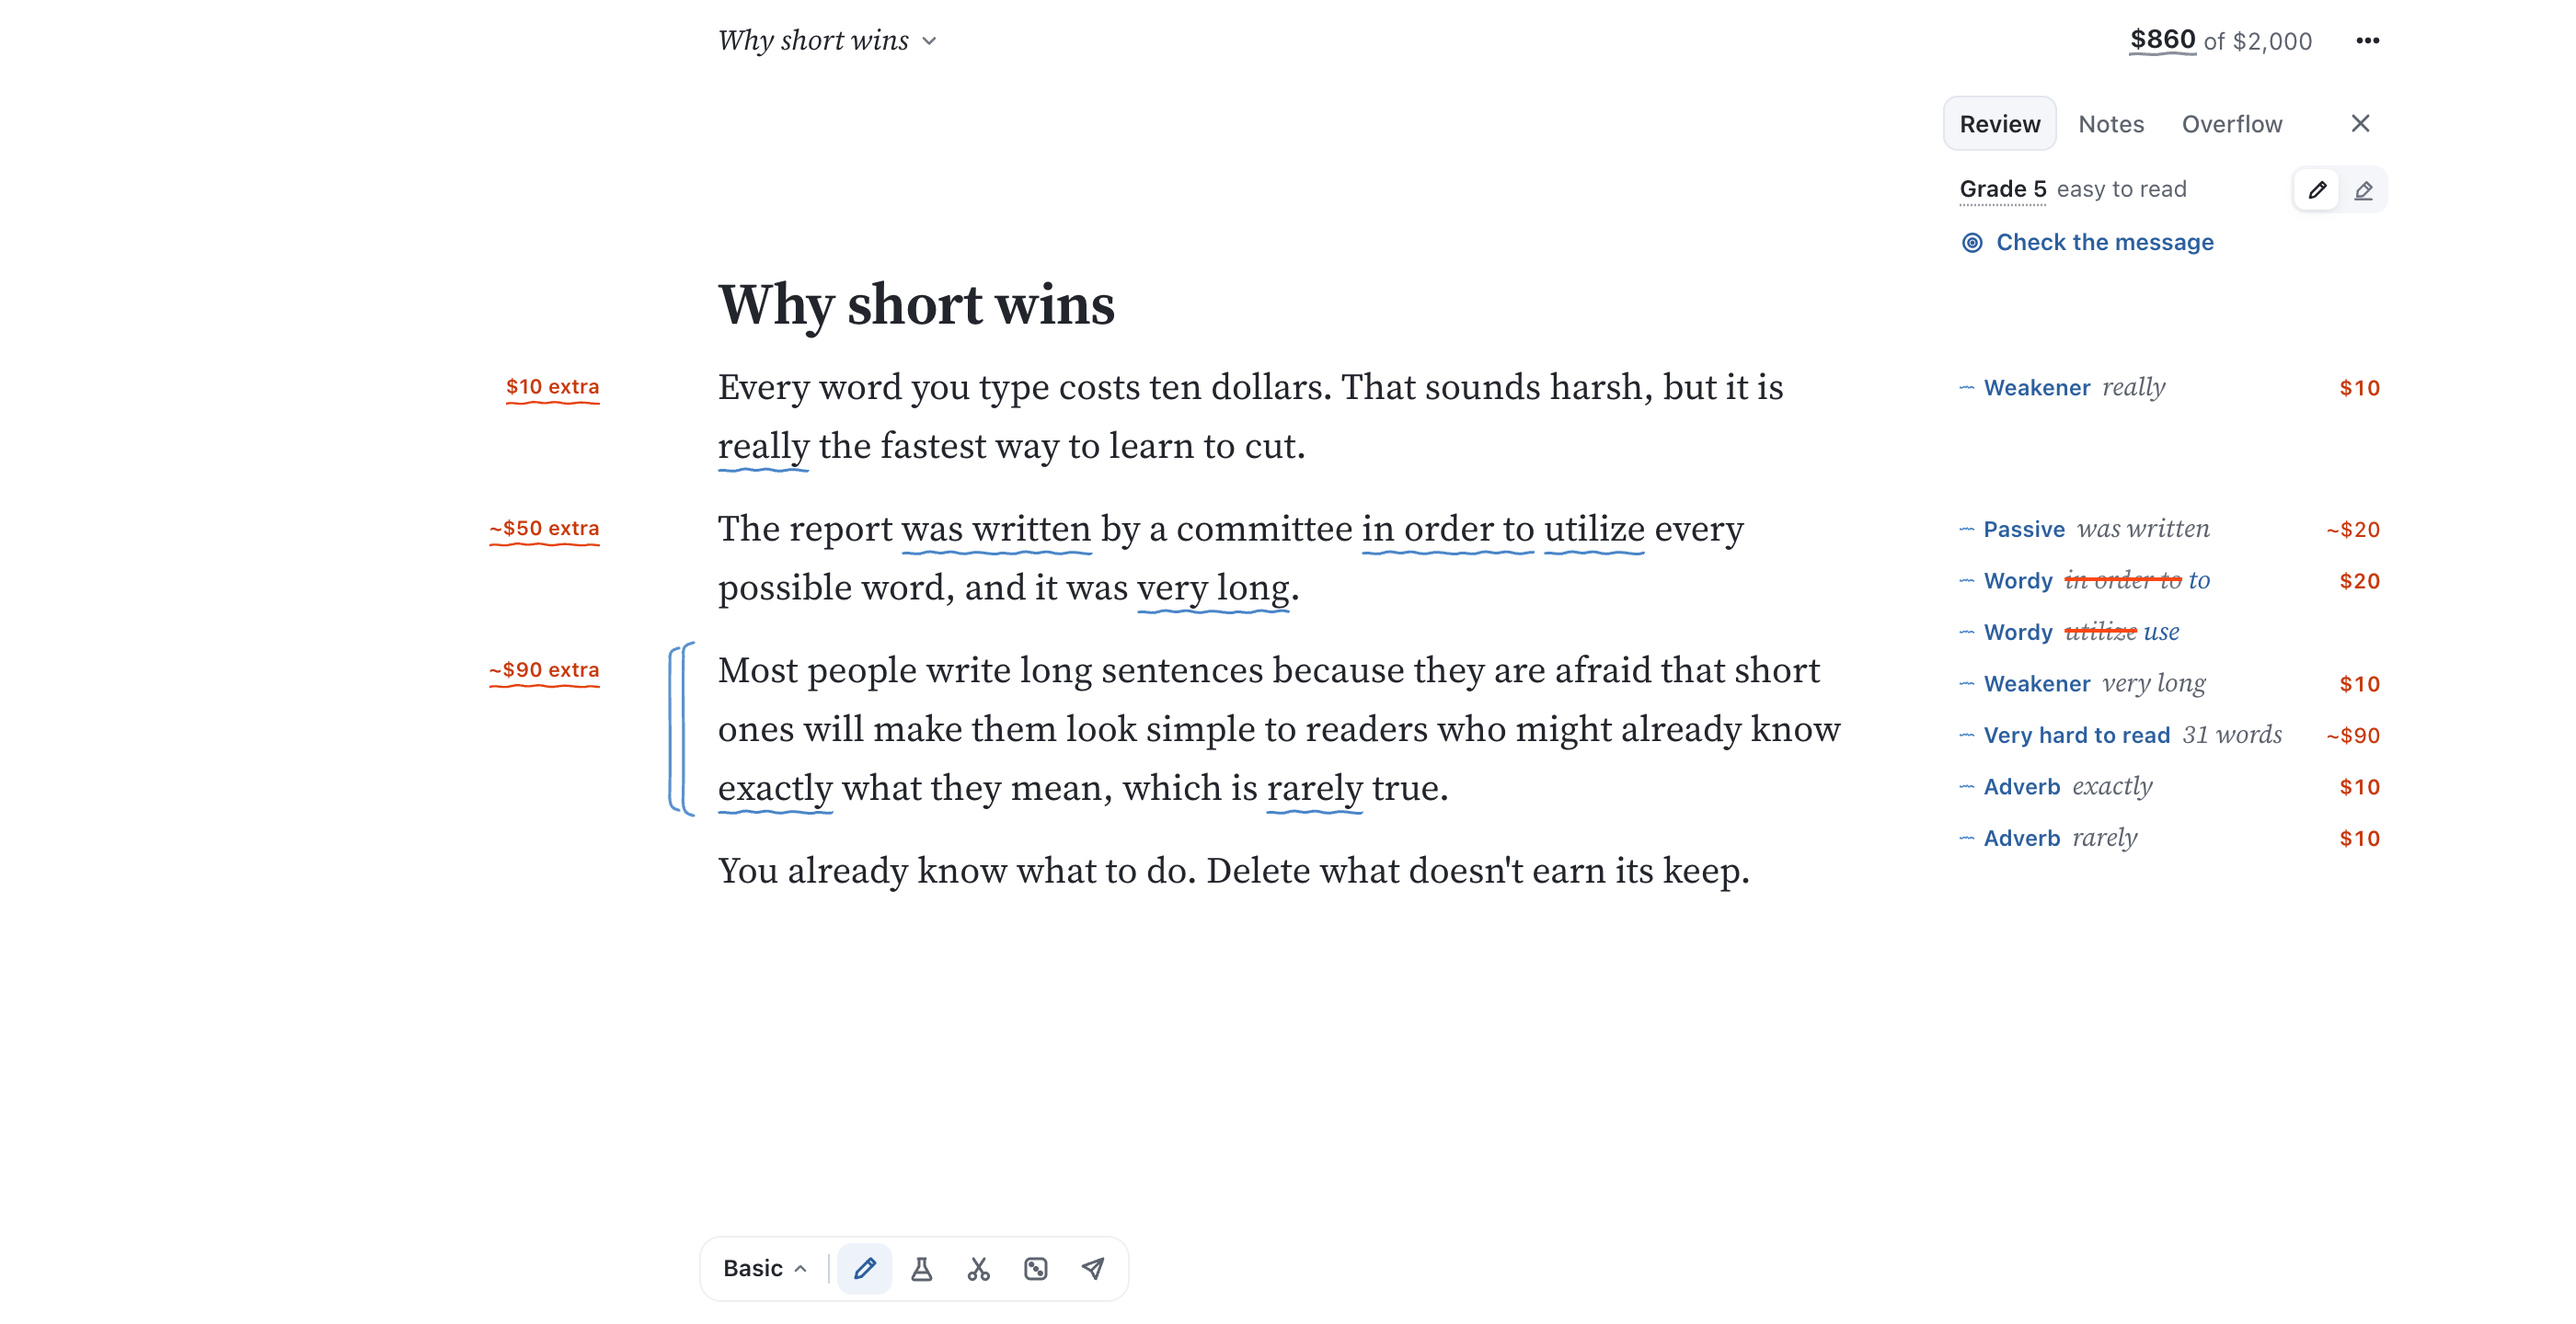
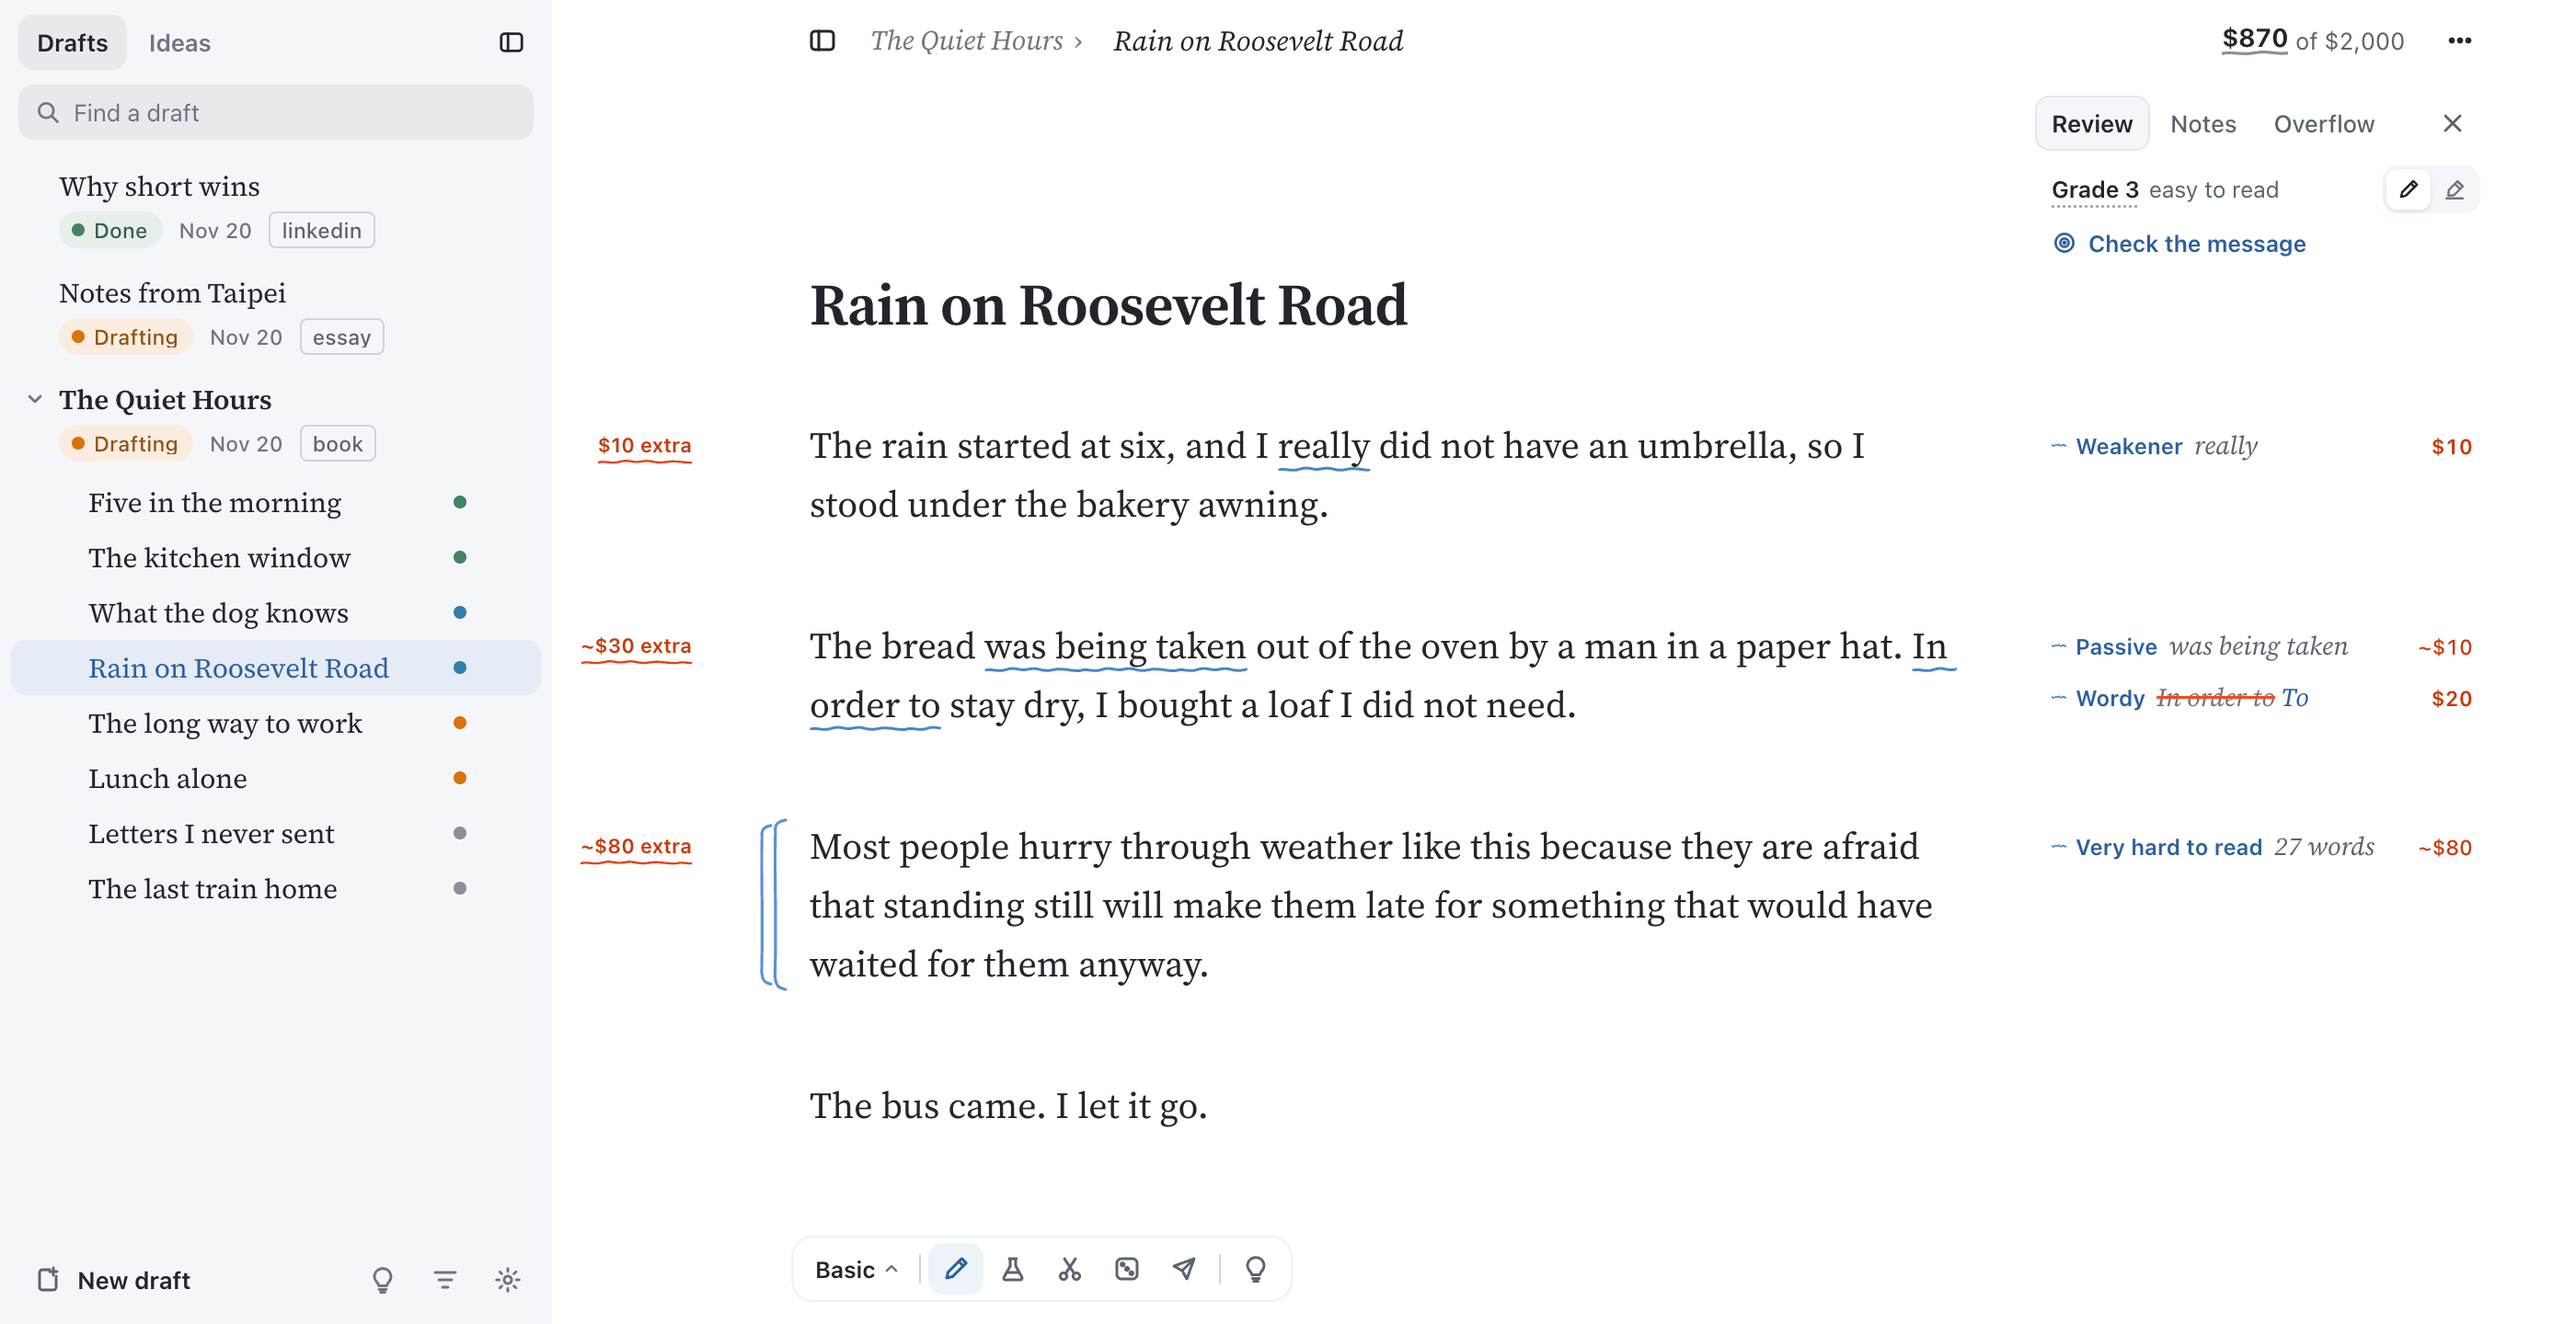
5.0.0; new home page screenshot: a book in chapters with a review open

diff --git a/app/index.html b/app/index.html
@@ -14,11 +14,11 @@
   <link rel="preconnect" href="https://fonts.gstatic.com" crossorigin>
   <!-- The page's serif, the typewriter option, and the Traditional Chinese fallback. The UI is the system font. -->
   <link rel="stylesheet" href="https://fonts.googleapis.com/css2?family=Source+Serif+4:ital,opsz,wght@0,8..60,300..800;1,8..60,300..800&amp;family=Courier+Prime:ital,wght@0,400;0,700;1,400;1,700&amp;family=Noto+Serif+TC:wght@400;700&amp;display=swap">
-  <link rel="stylesheet" href="css/base.css?v=4.1.0">
-  <link rel="stylesheet" href="css/page.css?v=4.1.0">
-  <link rel="stylesheet" href="css/margin.css?v=4.1.0">
-  <link rel="stylesheet" href="css/surfaces.css?v=4.1.0">
-  <link rel="stylesheet" href="css/settings.css?v=4.1.0">
+  <link rel="stylesheet" href="css/base.css?v=5.0.0">
+  <link rel="stylesheet" href="css/page.css?v=5.0.0">
+  <link rel="stylesheet" href="css/margin.css?v=5.0.0">
+  <link rel="stylesheet" href="css/surfaces.css?v=5.0.0">
+  <link rel="stylesheet" href="css/settings.css?v=5.0.0">
 </head>
 <body>
   <!-- Drafts and ideas: a sidebar that comes over from the left edge (a drawer on a phone). -->
@@ -72,51 +72,51 @@
   <dialog id="recovery-dialog" class="recovery" aria-labelledby="recovery-title"></dialog>
   <div id="toast" class="toast" role="status" aria-live="polite" hidden></div>
 
-  <script src="js/data.js?v=4.1.0"></script>
-  <script src="js/inline.js?v=4.1.0"></script>
-  <script src="js/engine.js?v=4.1.0"></script>
-  <script src="js/marks.js?v=4.1.0"></script>
-  <script src="js/spell.js?v=4.1.0"></script>
-  <script src="js/tidy.js?v=4.1.0"></script>
-  <script src="js/notion-map.js?v=4.1.0"></script>
-  <script src="js/sound.js?v=4.1.0"></script>
-  <script src="js/store.js?v=4.1.0"></script>
-  <script src="js/ai.js?v=4.1.0"></script>
-  <script src="js/ai-mock.js?v=4.1.0"></script>
-  <script src="js/notion.js?v=4.1.0"></script>
-  <script src="js/sync.js?v=4.1.0"></script>
-  <script src="js/vault.js?v=4.1.0"></script>
-  <script src="js/account-keyring.js?v=4.1.0"></script>
-  <script src="js/keyring.js?v=4.1.0"></script>
-  <script src="js/account.js?v=4.1.0"></script>
-  <script src="js/items-sync.js?v=4.1.0"></script>
-  <script src="js/notion-import.js?v=4.1.0"></script>
-  <script src="js/formats.js?v=4.1.0"></script>
-  <script src="js/keys.js?v=4.1.0"></script>
-  <script src="js/editor.js?v=4.1.0"></script>
-  <script src="js/ui.js?v=4.1.0"></script>
-  <script src="js/help.js?v=4.1.0"></script>
-  <script src="js/spine.js?v=4.1.0"></script>
-  <script src="js/margin.js?v=4.1.0"></script>
-  <script src="js/review.js?v=4.1.0"></script>
-  <script src="js/project.js?v=4.1.0"></script>
-  <script src="js/ideas.js?v=4.1.0"></script>
-  <script src="js/drafts.js?v=4.1.0"></script>
-  <script src="js/dialogs.js?v=4.1.0"></script>
-  <script src="js/alts.js?v=4.1.0"></script>
-  <script src="js/menu.js?v=4.1.0"></script>
-  <script src="js/overflow.js?v=4.1.0"></script>
-  <script src="js/lab.js?v=4.1.0"></script>
-  <script src="js/challenges.js?v=4.1.0"></script>
-  <script src="js/challenge-ui.js?v=4.1.0"></script>
-  <script src="js/desk.js?v=4.1.0"></script>
-  <script src="js/blocks.js?v=4.1.0"></script>
-  <script src="js/notes.js?v=4.1.0"></script>
-  <script src="js/bubble.js?v=4.1.0"></script>
-  <script src="js/links.js?v=4.1.0"></script>
-  <script src="js/fx.js?v=4.1.0"></script>
-  <script src="js/bench.js?v=4.1.0"></script>
-  <script src="js/palette.js?v=4.1.0"></script>
-  <script src="js/app.js?v=4.1.0"></script>
+  <script src="js/data.js?v=5.0.0"></script>
+  <script src="js/inline.js?v=5.0.0"></script>
+  <script src="js/engine.js?v=5.0.0"></script>
+  <script src="js/marks.js?v=5.0.0"></script>
+  <script src="js/spell.js?v=5.0.0"></script>
+  <script src="js/tidy.js?v=5.0.0"></script>
+  <script src="js/notion-map.js?v=5.0.0"></script>
+  <script src="js/sound.js?v=5.0.0"></script>
+  <script src="js/store.js?v=5.0.0"></script>
+  <script src="js/ai.js?v=5.0.0"></script>
+  <script src="js/ai-mock.js?v=5.0.0"></script>
+  <script src="js/notion.js?v=5.0.0"></script>
+  <script src="js/sync.js?v=5.0.0"></script>
+  <script src="js/vault.js?v=5.0.0"></script>
+  <script src="js/account-keyring.js?v=5.0.0"></script>
+  <script src="js/keyring.js?v=5.0.0"></script>
+  <script src="js/account.js?v=5.0.0"></script>
+  <script src="js/items-sync.js?v=5.0.0"></script>
+  <script src="js/notion-import.js?v=5.0.0"></script>
+  <script src="js/formats.js?v=5.0.0"></script>
+  <script src="js/keys.js?v=5.0.0"></script>
+  <script src="js/editor.js?v=5.0.0"></script>
+  <script src="js/ui.js?v=5.0.0"></script>
+  <script src="js/help.js?v=5.0.0"></script>
+  <script src="js/spine.js?v=5.0.0"></script>
+  <script src="js/margin.js?v=5.0.0"></script>
+  <script src="js/review.js?v=5.0.0"></script>
+  <script src="js/project.js?v=5.0.0"></script>
+  <script src="js/ideas.js?v=5.0.0"></script>
+  <script src="js/drafts.js?v=5.0.0"></script>
+  <script src="js/dialogs.js?v=5.0.0"></script>
+  <script src="js/alts.js?v=5.0.0"></script>
+  <script src="js/menu.js?v=5.0.0"></script>
+  <script src="js/overflow.js?v=5.0.0"></script>
+  <script src="js/lab.js?v=5.0.0"></script>
+  <script src="js/challenges.js?v=5.0.0"></script>
+  <script src="js/challenge-ui.js?v=5.0.0"></script>
+  <script src="js/desk.js?v=5.0.0"></script>
+  <script src="js/blocks.js?v=5.0.0"></script>
+  <script src="js/notes.js?v=5.0.0"></script>
+  <script src="js/bubble.js?v=5.0.0"></script>
+  <script src="js/links.js?v=5.0.0"></script>
+  <script src="js/fx.js?v=5.0.0"></script>
+  <script src="js/bench.js?v=5.0.0"></script>
+  <script src="js/palette.js?v=5.0.0"></script>
+  <script src="js/app.js?v=5.0.0"></script>
 </body>
 </html>

diff --git a/app/site/home.html b/app/site/home.html
@@ -31,7 +31,7 @@
   <p class="lede">Write, and see what each extra word costs you. Then cut it.</p>
   <div class="cta-row"><a class="btn" href="/dashboard">Start writing <i aria-hidden="true">&rarr;</i></a><small>Free. Works in your browser.</small></div>
 </section>
-<figure class="shot"><img src="/site/shot.png" width="2800" height="1440" alt="A draft in Ten Dollar Words with a review open: wordy phrases underlined, and notes in the margin saying what cutting each one saves."></figure>
+<figure class="shot"><img src="/site/shot.png" width="2800" height="1440" alt="A chapter of a book in Ten Dollar Words, its chapters listed beside it, with a review open: wordy phrases underlined and notes in the margin saying what cutting each one saves."></figure>
 <ul class="gets">
   <li><h2>See the price of a sentence</h2><p>Every note says what fixing it saves, in dollars.</p></li>
   <li><h2>Say it in fewer words</h2><p>Hard sentences and wordy phrases get marked. You choose what changes.</p></li>

diff --git a/app/js/app.js b/app/js/app.js
@@ -7,7 +7,7 @@
   const { Engine, Editor, UI, Store, Sound, Dialogs, Spell, Sync, Formats, Marks } = TDW;
   const opt = (name) => TDW[name] || null;
 
-  const APP_VERSION = '4.1.0';
+  const APP_VERSION = '5.0.0';
   const SAMPLE_TEXT = [
     'Every word you type costs ten dollars. That sounds harsh, but it is really the fastest way to learn to cut.',
     'Most people write long sentences because they are afraid that short ones will make them look simple to readers.',

diff --git a/app/sw.js b/app/sw.js
@@ -2,7 +2,7 @@
    The account API (/api/) always goes to the network.
    Pages ask for files with ?v=…; the precache stores them without it, so offline lookups ignore the query.
    The app's page is /dashboard (the Worker serves app/index.html there); / is the website. */
-const VERSION = 'tdw-4.1.0';
+const VERSION = 'tdw-5.0.0';
 const FONT_CACHE = 'tdw-fonts';
 const FONT_HOSTS = ['fonts.googleapis.com', 'fonts.gstatic.com'];
 const PRECACHE = [
